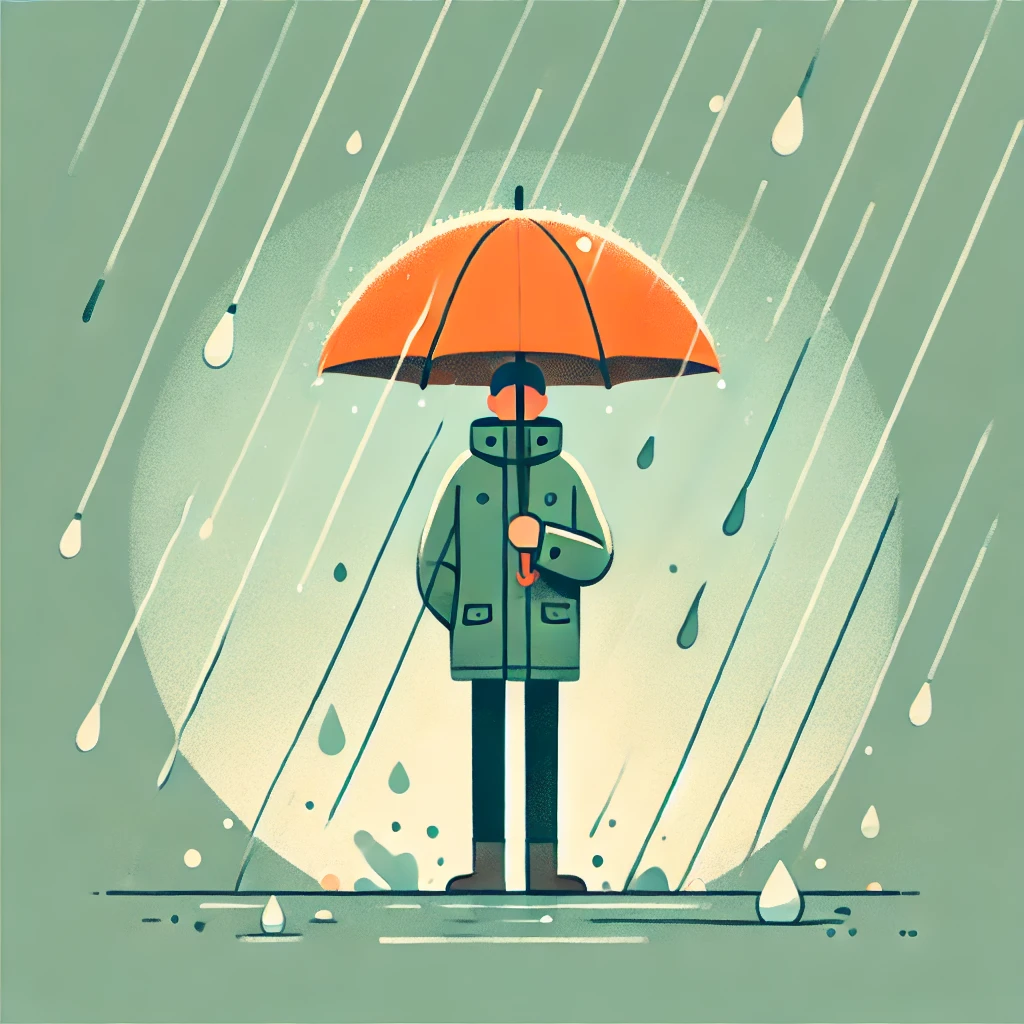
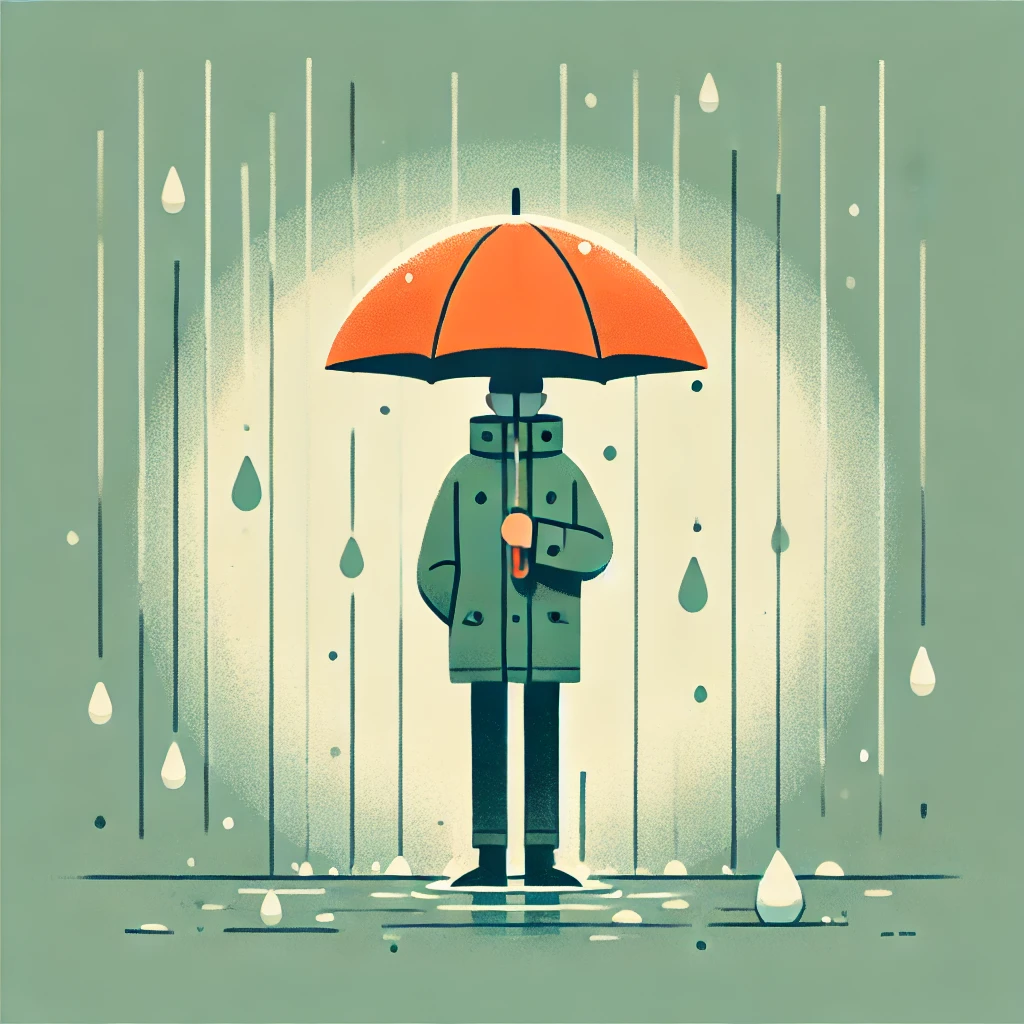
Implementacion de las imagenes en cada card

diff --git a/src/App.tsx b/src/App.tsx
@@ -2,6 +2,7 @@ import './App.css';
 import Grid from '@mui/material/Grid2';
 import TableWeather from './components/TableWeather';
 import ControlWeather from './components/ControlWeather';
+import WeatherCardWind from './components/WeatherCardWind';
 import LineChartWeather from './components/LineChartWeather';
 import WeatherCard from './components/WeatherCard';
 import Item from './components/Item';
@@ -35,6 +36,7 @@ function App() {
     windDirection: '',
     windGust: '',
     cloudCoverage: '',
+    windName: '',
   });
 
   const [tomorrowData, setTomorrowData] = useState({
@@ -42,7 +44,19 @@ function App() {
     weatherName: "",
   });
   
+  const Images: { [key: string]: string } = {
+    GentleBreeze: "https://raw.githubusercontent.com/NLindao2004/dashboard/refs/heads/main/src/Imagenes/Gentle%20Breeze.webp",
+    LightBreeze: "https://raw.githubusercontent.com/NLindao2004/dashboard/refs/heads/main/src/Imagenes/Light%20breeze.webp",
+    Calm: "https://raw.githubusercontent.com/NLindao2004/dashboard/refs/heads/main/src/Imagenes/Calm.webp",
+    lightrain: "https://raw.githubusercontent.com/NLindao2004/dashboard/refs/heads/main/src/Imagenes/light%20rain.webp",
+    overcastclouds: "https://github.com/NLindao2004/dashboard/blob/main/src/Imagenes/overcast%20clouds.webp",
+    brokenclouds: "https://raw.githubusercontent.com/NLindao2004/dashboard/refs/heads/main/src/Imagenes/broken%20clouds.webp",
+    fewclouds: "https://github.com/NLindao2004/dashboard/blob/main/src/Imagenes/few%20clouds.webp",
+    scatteredclouds: "https://github.com/NLindao2004/dashboard/blob/main/src/Imagenes/scattered%20clouds.webp",
 
+  };
+
+  
   useEffect(() => {
     const fetchData = async () => {
       let savedTextXML = localStorage.getItem("openWeatherMap") || "";
@@ -78,6 +92,8 @@ function App() {
         const windDirection = xml.getElementsByTagName('windDirection')[0]?.getAttribute('code') || '';
         const windGust = xml.getElementsByTagName('windGust')[0]?.getAttribute('gust') + ' m/s';
         const cloudCoverage = xml.getElementsByTagName('clouds')[0]?.getAttribute('all') + '%';
+        const windName = xml.getElementsByTagName('windSpeed')[0]?.getAttribute('name') ?? '';
+
 
         setWeatherData({
           temperature,
@@ -89,6 +105,7 @@ function App() {
           windDirection,
           windGust,
           cloudCoverage,
+          windName,
         });
 
         // Datos para la tabla y el gráfico
@@ -181,12 +198,13 @@ function App() {
               { label: 'Humedad', value: weatherData.humidity },
               { label: 'Presión', value: weatherData.pressure },
             ]}
+            imageUrl={Images[weatherData.weatherDescription.replace(/\s+/g, '')]}
           />
         </Grid>
         <Grid size={6}>
-          <WeatherCard
+          <WeatherCardWind
             title="Viento"
-            subtitle="Gentle Breeze"
+            subtitle={weatherData.windName}
             mainValue={weatherData.windSpeed}
             mainUnit="m/s"
             description="Sobre el viento de hoy"
@@ -195,6 +213,7 @@ function App() {
               { label: 'Dirección', value: weatherData.windDirection },
               { label: 'Nubes', value: weatherData.cloudCoverage },
             ]}
+            imageUrl={Images[weatherData.windName.replace(/\s+/g, '')]}
           />
         </Grid>
       </Grid>

diff --git a/src/components/TomorrowWeatherCard.tsx b/src/components/TomorrowWeatherCard.tsx
@@ -5,9 +5,11 @@ import Typography from '@mui/material/Typography';
 interface TomorrowWeatherCardProps {
   temperature: string; // Temperatura para mañana
   weatherName: string; // Descripción del clima (name del símbolo)
+  imageUrl?: string; // Nueva prop opcional para la URL de la imagen
+
 }
 
-const TomorrowWeatherCard: React.FC<TomorrowWeatherCardProps> = ({ temperature, weatherName }) => {
+const TomorrowWeatherCard: React.FC<TomorrowWeatherCardProps> = ({ temperature, weatherName,  imageUrl }) => {
   return (
     <Paper
       sx={{
@@ -19,7 +21,9 @@ const TomorrowWeatherCard: React.FC<TomorrowWeatherCardProps> = ({ temperature, 
         textAlign: 'center',
         width: '300px',
         height: '485px',
-        backgroundImage: 'url("https://raw.githubusercontent.com/NLindao2004/dashboard/refs/heads/main/src/cloudsAndSunny.webp")', // URL de la imagen
+        backgroundImage: imageUrl
+        ? `url(${imageUrl})`
+        : `url('https://raw.githubusercontent.com/NLindao2004/dashboard/refs/heads/main/src/Imagenes/Lluvia.webp')`, // Usamos la imagen si se proporciona
         backgroundSize: 'cover', // Ajustar imagen para cubrir todo
         backgroundPosition: 'center', // Centrar la imagen
         color: '#ffffff', // Cambiar el color del texto a blanco para mejor contraste

diff --git a/src/components/WeatherCardWind.tsx b/src/components/WeatherCardWind.tsx
@@ -34,7 +34,7 @@ export default function WeatherCard({
         borderRadius: 2,
         backgroundImage: imageUrl
           ? `url(${imageUrl})`
-          : `url('https://raw.githubusercontent.com/NLindao2004/dashboard/refs/heads/main/src/Imagenes/default.webp')`, // Usamos la imagen si se proporciona
+          : `url('https://raw.githubusercontent.com/NLindao2004/dashboard/refs/heads/main/src/Imagenes/defaultWind.webp')`, // Usamos la imagen si se proporciona
         backgroundSize: 'cover', // Ajustar imagen para cubrir todo
         backgroundPosition: 'center', // Centrar la imagen
         color: '#ffffff', // Cambiar el color del texto a blanco para mejor contraste
